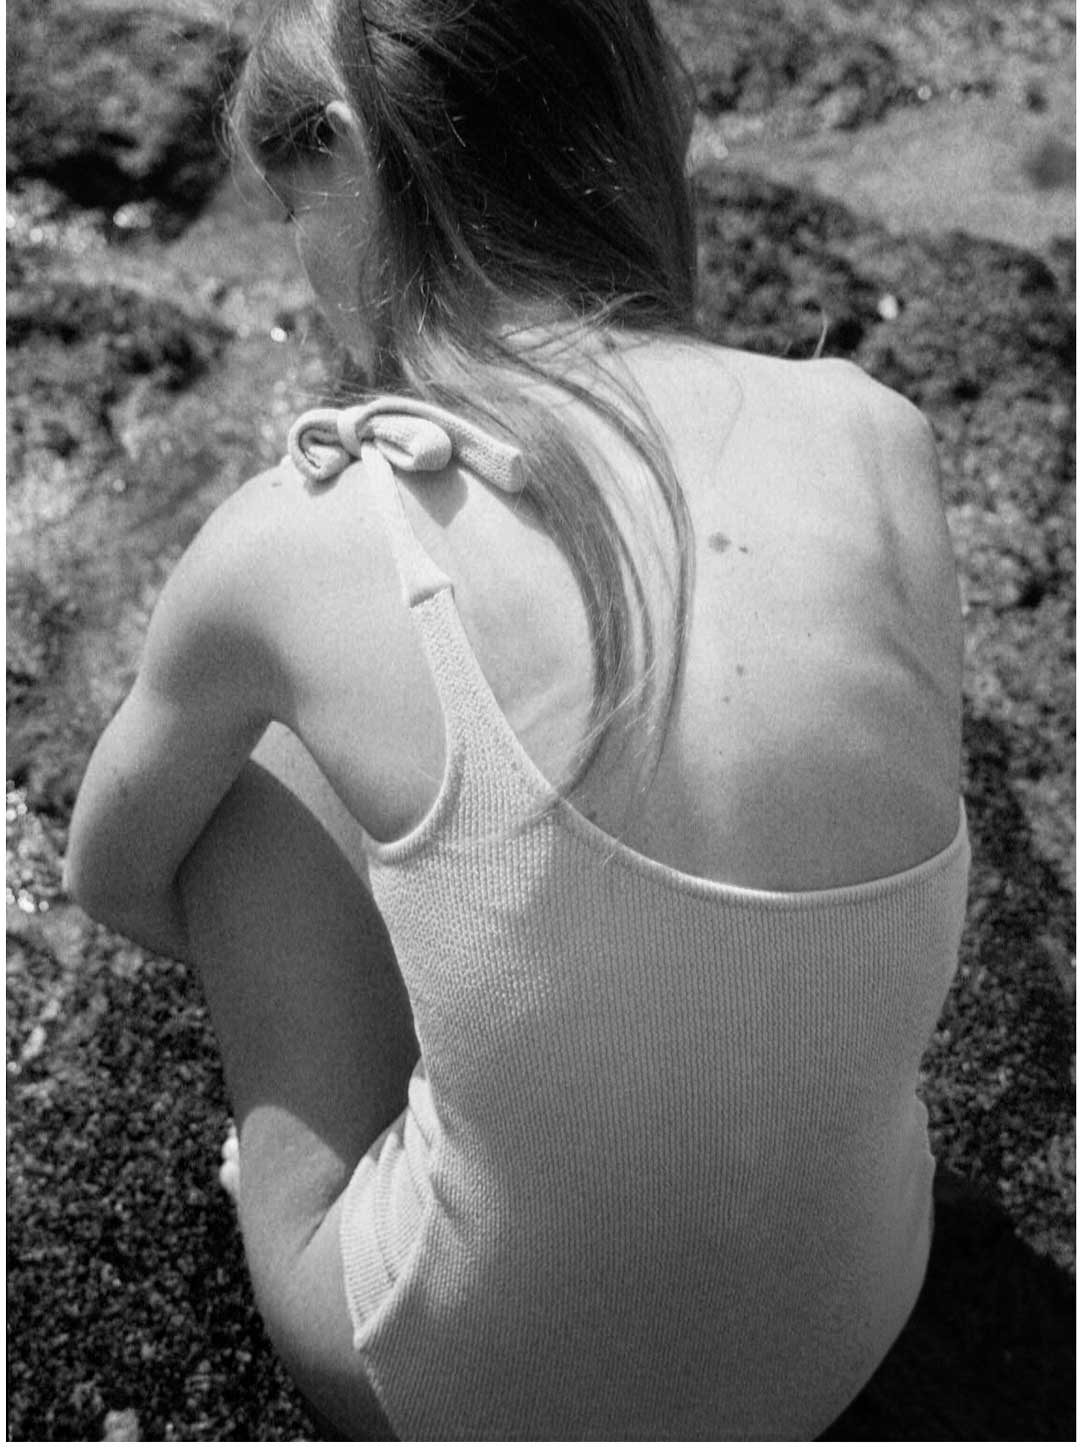
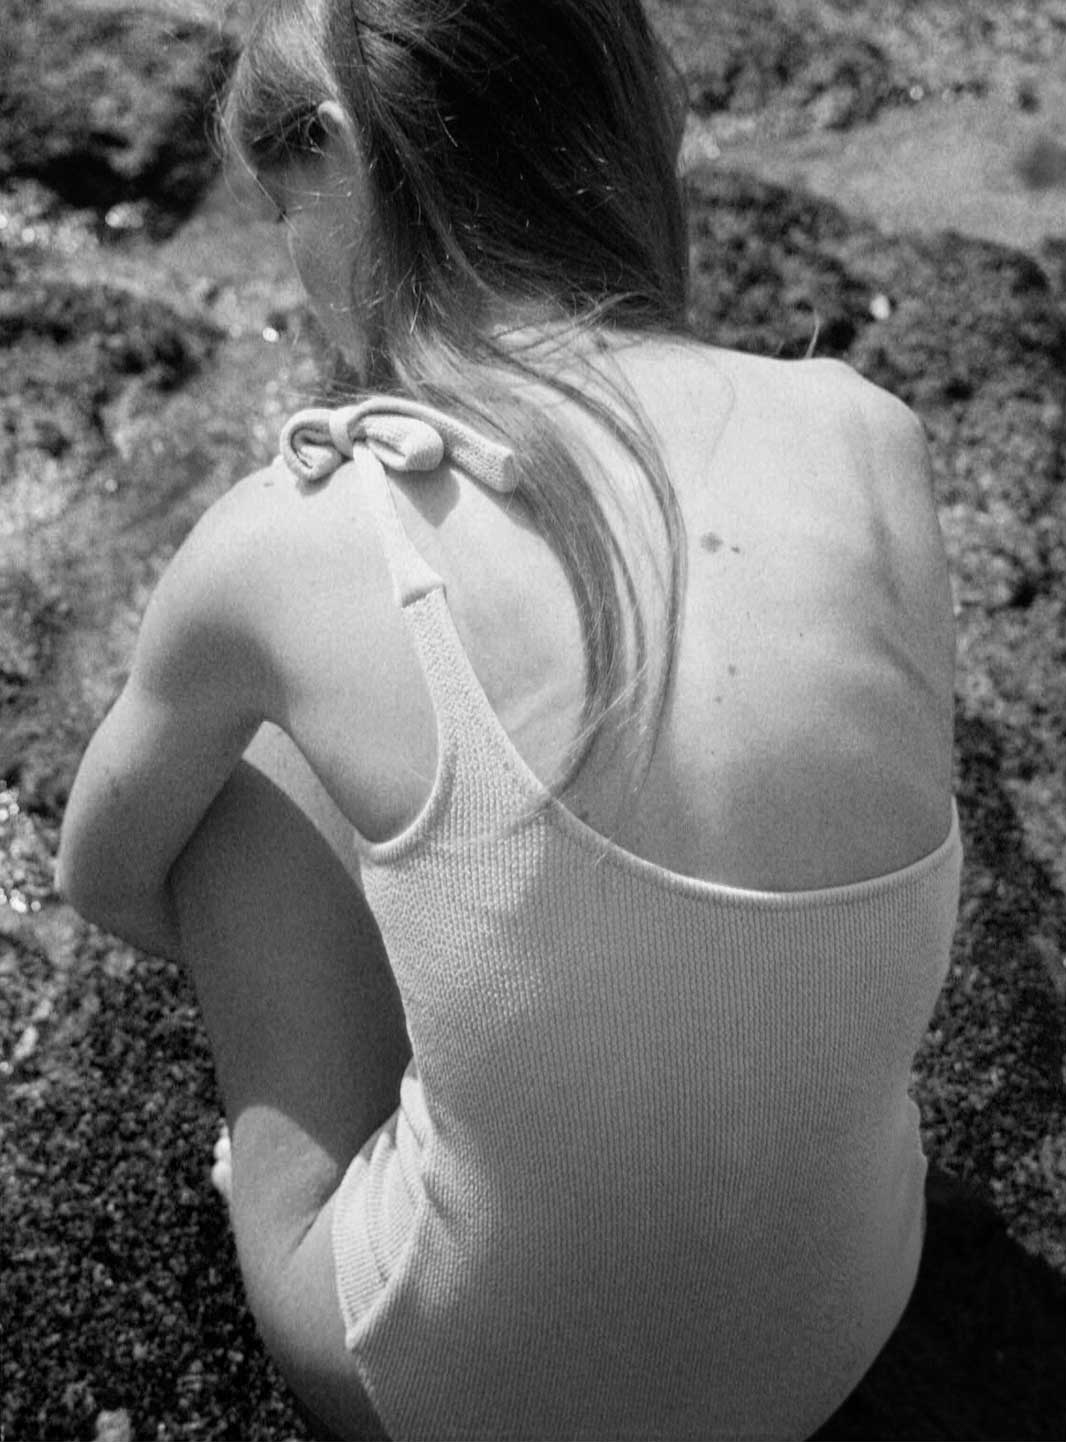
Add cover picture for mobile view

diff --git a/src/routes/About/index.js b/src/routes/About/index.js
@@ -3,6 +3,7 @@ import React from 'react';
 import work34 from '../../assets/work-34.jpg';
 import about1 from '../../assets/about-pic-01.jpg';
 import about2 from '../../assets/about-pic-02.jpg';
+import about3 from '../../assets/about-pic-03.jpg';
 
 import Menu from '../../components/Menu';
 
@@ -11,6 +12,7 @@ const About = () => (
     <Menu />
     <div className="about-home">
 
+      <div className="about-home__show-desktop">
       <div className="u-grid">
         <div className="about-home__col-2">
           <img
@@ -30,6 +32,20 @@ const About = () => (
             style={{ paddingLeft: '5px' }}
           />
         </div>
+      </div>
+      </div>
+
+      <div className="about-home__show-mobile">
+      <div className="u-grid">
+        <div>
+          <img
+            src={about3}
+            alt="portfolio"
+            className="img-fluid"
+            loading="lazy"
+          />
+        </div>
+      </div>
       </div>
 
       <div className="about-home__section">
@@ -83,7 +99,7 @@ const About = () => (
           <br /><br />
           <p>Select publications</p>
           <p className="about-home__cv-items">
-          <span>Summer Drops <i>(book)</i></span>
+          <span>Summer Drops, book</span>
           <span>Mulieris Magazine, print issue 04</span>
           <span>Curated by GIRLS</span>
           <span>Photo Vogue</span>

diff --git a/src/styles/components/_about.scss b/src/styles/components/_about.scss
@@ -7,6 +7,20 @@
 		margin: 125px 20px 20px;
 	}
 
+	&__show-desktop {
+		display: block;
+		@media (max-width: $small-screen) {
+			display: none;
+		}
+	}
+
+	&__show-mobile {
+		display: none;
+		@media (max-width: $small-screen) {
+			display: block;
+		}
+	}
+
 	&__col-2 {
 		width: 50%;
 	}
